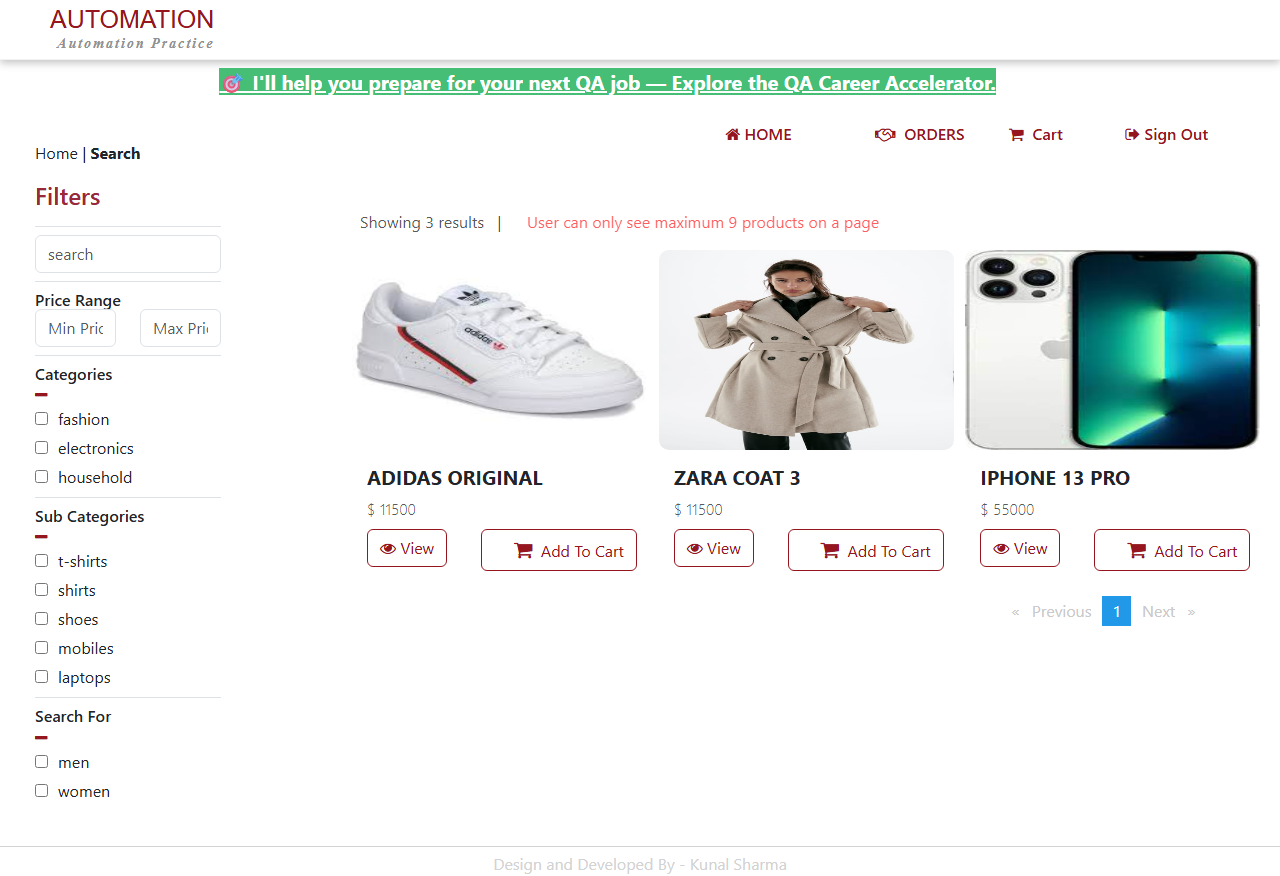
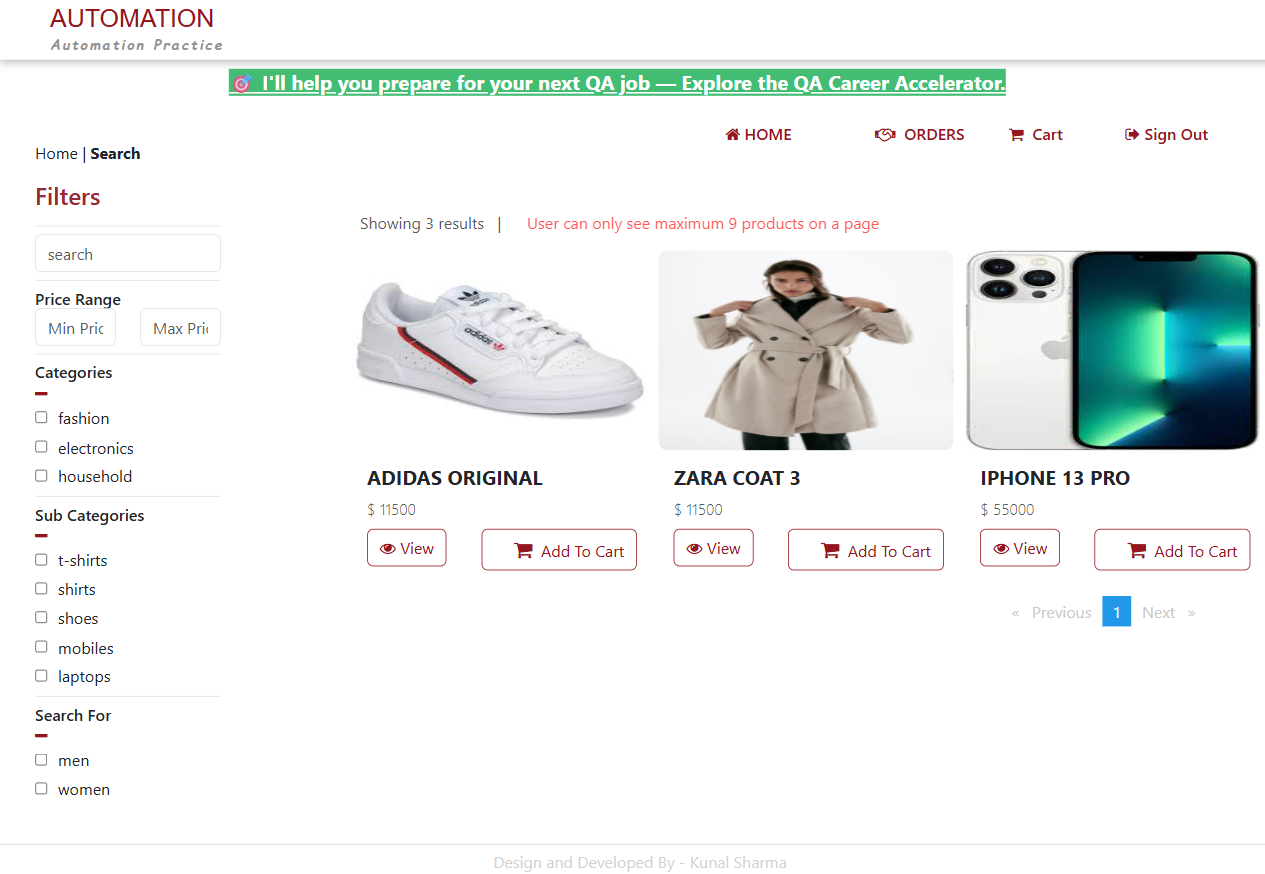
Select shipping country and speed up page navigation

diff --git a/tests/Assignment3/E2EFlow.ts b/tests/Assignment3/E2EFlow.ts
@@ -29,6 +29,8 @@ export class E2EFlow extends OrderE2EBasePage {
   private readonly cvvField: Locator;
   private readonly nameOnCardField: Locator;
   private readonly couponField: Locator;
+  private readonly countryField: Locator;
+  private readonly countryResults: Locator;
 
   private readonly spinnerOverlay: Locator;
 
@@ -64,6 +66,9 @@ export class E2EFlow extends OrderE2EBasePage {
     this.cvvField = field.filter({ hasText: "CVV Code" }).locator("input");
     this.nameOnCardField = field.filter({ hasText: "Name on Card" }).locator("input");
     this.couponField = field.filter({ hasText: "Apply Coupon" }).locator("input");
+
+    this.countryField = page.getByPlaceholder("Select Country");
+    this.countryResults = page.locator(".ta-results");
 
     this.spinnerOverlay = page.locator(".ngx-spinner-overlay").first();
   }
@@ -110,7 +115,7 @@ export class E2EFlow extends OrderE2EBasePage {
   }
 
   async openLogin(): Promise<void> {
-    await this.page.goto("https://rahulshettyacademy.com/client/#/auth/login");
+    await this.page.goto("https://rahulshettyacademy.com/client/#/auth/login", { waitUntil: "domcontentloaded" });
   }
 
   async login(email: string, password: string): Promise<void> {
@@ -155,5 +160,11 @@ export class E2EFlow extends OrderE2EBasePage {
     await this.nameOnCardField.fill(nameOnCard);
 
     await this.couponField.fill(coupon);
+  }
+
+  async selectCountry(country: string): Promise<void> {
+    await this.countryField.pressSequentially(country);
+
+    await this.countryResults.getByRole("button", { name: country }).click();
   }
 }

diff --git a/tests/Assignment3/UserE2ECheckout.spec.ts b/tests/Assignment3/UserE2ECheckout.spec.ts
@@ -9,11 +9,9 @@ test.use({
 
 const email = faker.internet.email();
 const password = faker.internet.password({ length: 10, prefix: "Kishk@80" });
-const phone = faker.string.numeric(10);
+const phone = faker.string.numeric({ length: 10, allowLeadingZeros: false });
 
 test("user registers, logs in and checks out a Zara product", async ({ page }) => {
-  test.setTimeout(240000);
-
   const userObject = new E2EFlow(page);
 
   await userObject.open();
@@ -50,6 +48,8 @@ test("user registers, logs in and checks out a Zara product", async ({ page }) =
     "rahulshettyacademy"
   );
 
+
+  await userObject.selectCountry("Italy");
   await userObject.waitUntilReady();
 
   await page.screenshot({ path: path.join(__dirname, "..", "..", "screenshots", "3-checkout.png"), fullPage: true });

diff --git a/tests/Assignment3/OrderE2EBasePage.ts b/tests/Assignment3/OrderE2EBasePage.ts
@@ -4,6 +4,6 @@ export class OrderE2EBasePage {
   constructor(protected readonly page: Page) {}
 
   async open(): Promise<void> {
-    await this.page.goto("https://rahulshettyacademy.com/client");
+    await this.page.goto("https://rahulshettyacademy.com/client", { waitUntil: "domcontentloaded" });
   }
 }
